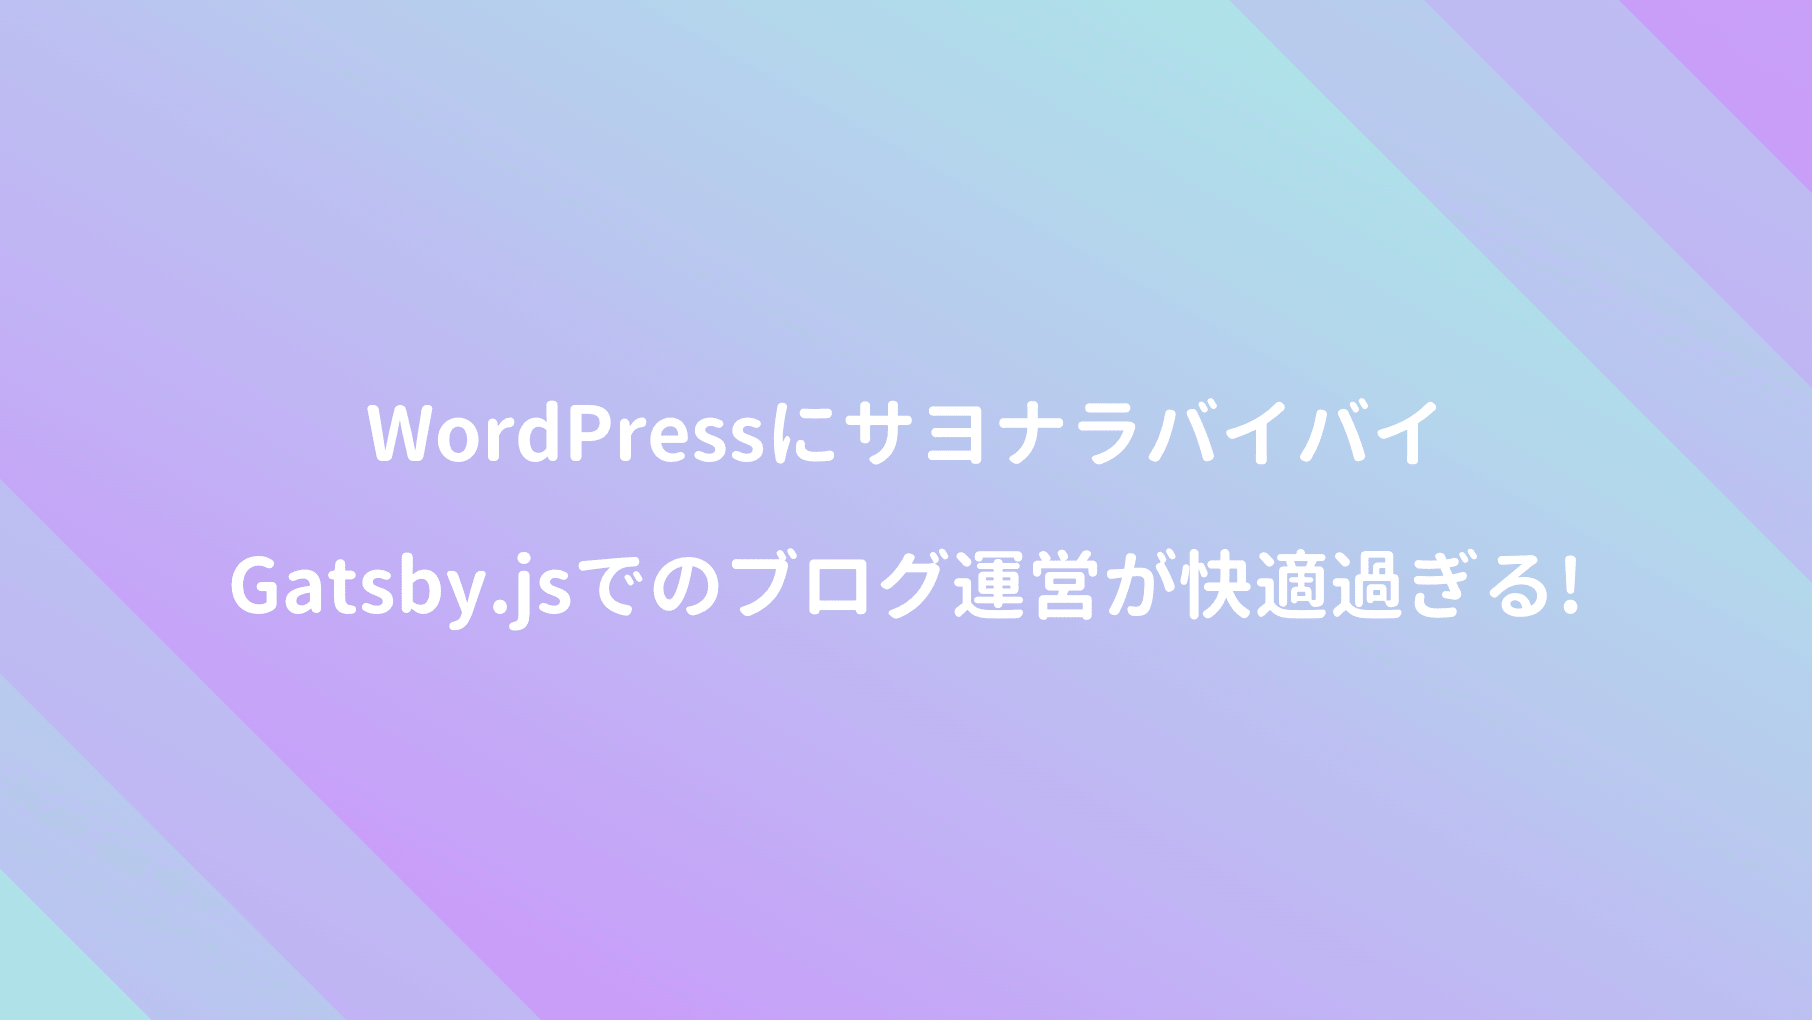
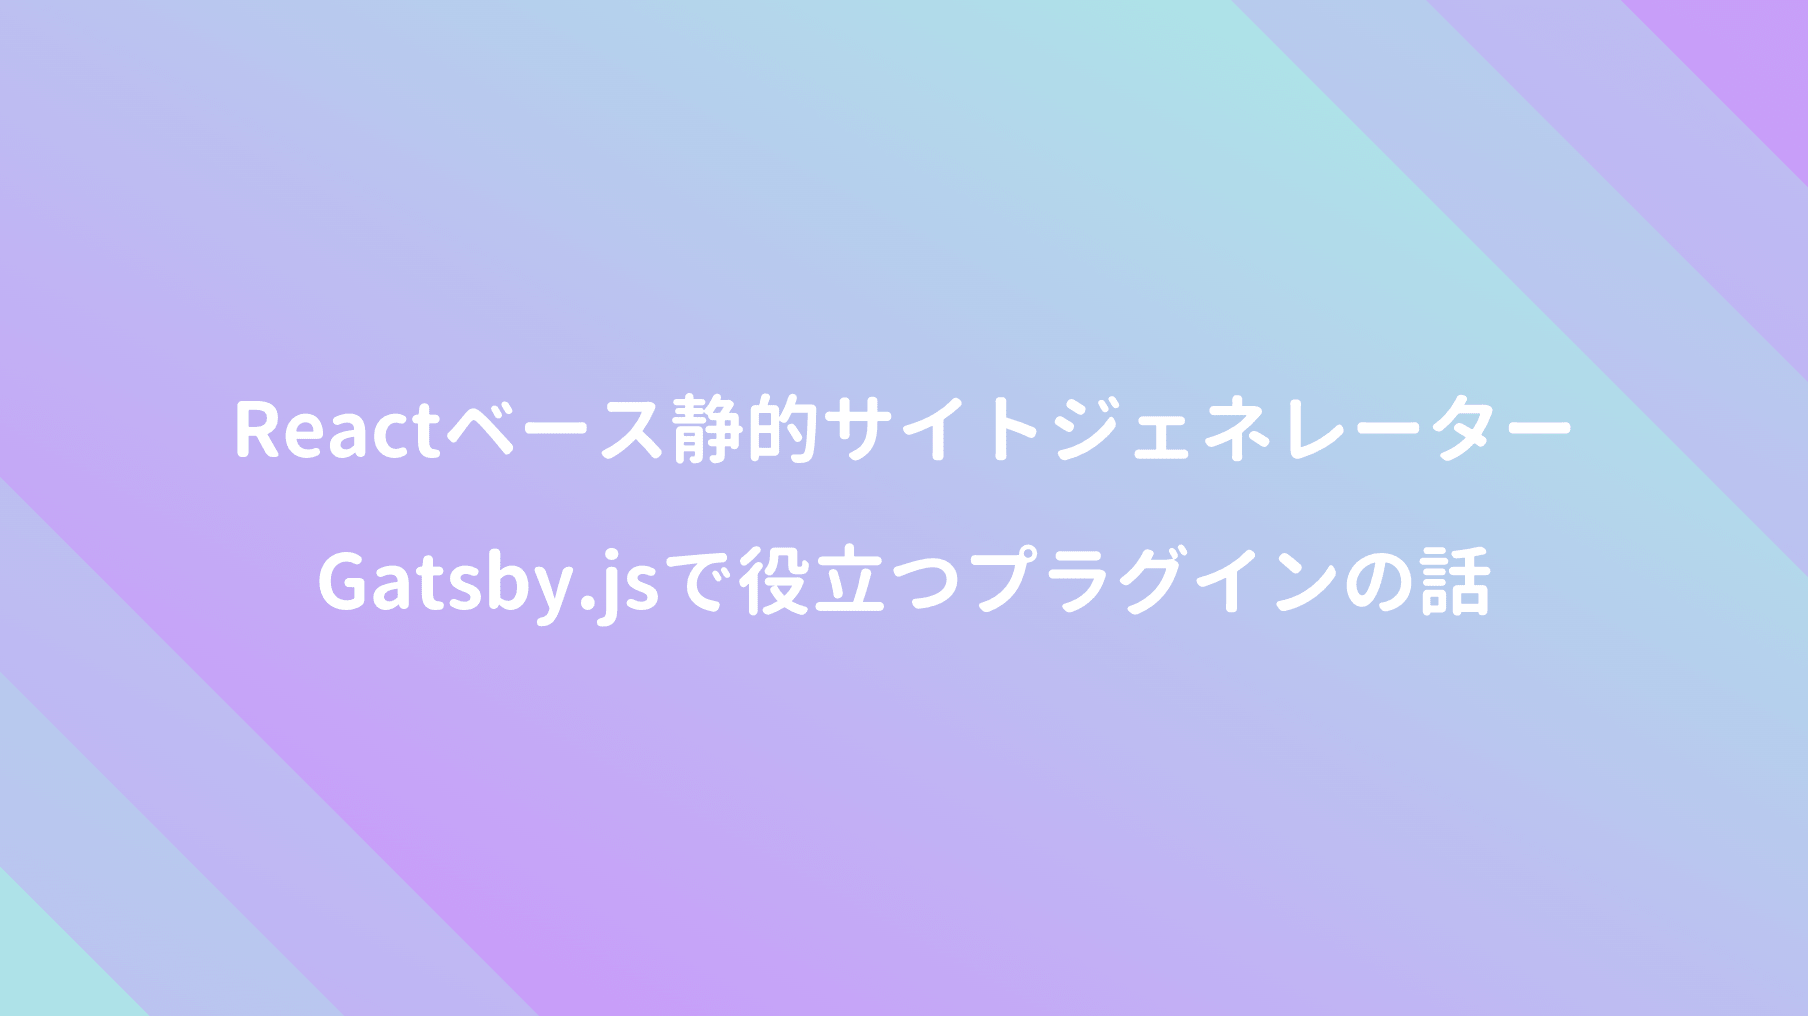
update posts

Changed region(s): [[0.1239, 0.5187, 0.8673, 0.6407], [0.1239, 0.3661, 0.8673, 0.4577], [0.9912, 0.1526, 1.0, 0.1831]]

diff --git a/content/blog/post-31/index.md b/content/blog/post-31/index.md
@@ -1,0 +1,132 @@
+---
+title: BtoBマーケティングのABMとは何か!? ABMが求められる背景について
+date: "2020-03-29T00:00:00.284Z"
+description: "以前にBtoBマーケティングを教えてくれた方から、シンフォニーマーケティングの庭山一郎さんを薦められたので、同氏が執筆されたABM(アカウントベースドマーケティング)の書籍を読んでみた。様々な要因が複雑に絡み合う現代で、日本は世界で稀な「資本主義でありながらマーケティング抜きで大成功出来た国」だったが、それも2008年のリーマンショックで完全に終わり、今やマーケティングというナレッジや機能抜きでは、成長どころか存続すら危ういと言われている。"
+pagetype: "category"
+categoryname: "ビジネス"
+categoryslug: "business"
+tags: ["マーケティング", "ABM", "MAツール"]
+thumbnail: post-31.png
+---
+
+![](./post-31.png)
+
+以前私にBtoBマーケティングを教えてくれた方から、シンフォニーマーケティングの庭山一郎さんを薦められ、同氏が執筆されたABM(アカウントベースドマーケティング)の書籍を読んでみた。
+
+様々な外的要因から、今まで日本はマーケティング無しに経済大国の座に上り詰めたので、日本のマーケティングは米国に比べて15年遅れている。しかしグローバル化の時代では、日本もマーケティング無しに生き残ることは困難。そのためBtoBマーケティングでは、ABMの活用が求められている。
+
+<div class="blackboard-box">
+<p>■ ABMが成果を挙げられる7つの理由</p>
+<p>①. 営業とマーケティングが協業できる.</p>
+<p>②. マーケティング活動を売り上げに貢献させられる.</p>
+<p>③. 既存顧客からいち早く成果を出せる.</p>
+<p>④. 新規顧客の扉をこじ開けられる.</p>
+<p>⑤. 低コストでスタートできる.</p>
+<p>⑥. 過去の投資を無駄にしない.</p>
+<p>⑦. ターゲットアカウントと面でつながれる.</p>
+<div class="chalk1"></div>
+<div class="chalk2"></div>
+</div>
+
+本書は日本のマーケティングにおける歴史的な背景、BtoBマーケティングの基礎知識、ABMやMAツール等、BtoBマーケティングに関わる包括的な知識が得られる一冊であることは間違いないと思う。
+
+## 日本のマーケティングが遅れている理由
+
+なぜ日本はマーケティング無しに、世界第2位の経済大国に上り詰めることが出来たのか!?
+
+本書ではその要因として、<span style="color: crimson; font-weight: bold;">戦後の急成長する内需と、為替の恩恵を受けたことにある</span>と説明。
+
+> 日本は第二次世界大戦での敗戦による復興需要と朝鮮戦争の特需が重なり、一気に上昇気流に乗ることが出来ました。
+> 
+> さらに高度経済成長の中で家電をそろえ、3〜4年おきに車を買い替え、子供に高等教育を受けさせるなど、巨大で旺盛な国内内需が企業の成長を支えたのです。マーケティングはそれほど重要ではありません。良いものを作れば売れる時代が続いたのです。
+> 
+> また日本は世界有数の工業国であり、その技術力で世界最高レベルの工業製品を、為替によって非常に安い価格で輸出できたことで、日本製品はマーケティングの助けが無くても飛ぶように売れました。
+
+ただしそれも2008年のリーマンショックで完全に終わり、今やマーケティングというナレッジや機能抜きでは、成長どころか存続すら危うく</span>、なのでABMの理解が大切だと言われている。
+
+## ABMはマーケティングと営業を繋ぐもの
+
+本書ではABMを以下のように定義されている。
+
+> 全社の顧客情報を統合し、マーケティングと営業の連携によって、定義されたターゲットアカウントからの売り上げ最大化を目指す戦略的マーケティング。
+
+マーケティング素人の自分には、この文章だけではほぼ理解不能だが、まずABMの重要性が叫ばれる背景には、マーケティングと営業の間にあった深い溝が大きく関係。
+
+> マーケターは<span style="color: crimson; font-weight: bold;">「何人のリード(見込み客情報)を保有しているか」</span>を考え、営業担当者は数ではなく質、つまり<span style="color: crimson; font-weight: bold;">「自分たちがフォローしたいターゲット企業は何社/何人なのか」</span>を考えている。更にいえば、自分が販売している製品や、サービスの購入に関わる部署の人間以外に興味はないのです。
+
+マーケターがコストを掛けて案件創出しても、営業はフォローしないので不信に感じ、営業側も「なぜもっと良質な案件を創れないのか?」とお互いの溝は深まるばかり。これではMAツールを導入しても、屍の山が増えるだけで、日本にマーケティングが根付くことは無かった。
+
+ABMでは営業がフォローしたい企業を、最優先でリストアップするため、SALとして受け入れられる率は一気に上がり、両者の関係を密に連携出来ることが期待できる。 つまり <span style="color: crimson; font-weight: bold;">ABMの価値とは、連携出来なかったマーケティング部門とセールス部門を上手く連携させ、ターゲットアカウントからの売り上げを最大化できること</span>  にある。
+
+## ディマンドジェネレーションの進化系がABM
+
+本書ではBtoBマーケティングの基礎理論であるDemand Waterfallが紹介されている。
+
+<div class="blackboard-box">
+<p>①. 見込み客データの収集</p>
+<p>Webやイベント、コールドコールなどで集めた名刺をデジタル化し、名寄せや営業対象外排除などのデータマネージメントを実施する.</p>
+<br/>
+<p>②. リードナーチャリング（啓蒙・育成）</p>
+<p>メールマガジンやWeb、動画、オンラインセミナー、ホワイトペーパー、チャット、そしてSNS、電話など多くのチャネルと、ターゲットに最適化されたコンテンツを利用。</p>
+<br/>
+<p>③. スコアリング（絞り込み）</p>
+<p>ファネルの中にいる全員を、属性情報と行動履歴の2軸でスコアリングし、有望と思われる見込み客リストを抽出.</p>
+<br/>
+<p>※ 抽出されたリストはMQLと呼ばれ、営業部門が受け入れるとSALとなる。また営業がフォローする案件には、SALとマーケティングに依存しないリストであるSGL(Sales Generated Lead)から成り立ち、合計はSQL(Sales Qualified Lead)と呼ばれる。</p>
+<div class="chalk1"></div>
+<div class="chalk2"></div>
+</div>
+
+これに対して、**インバウンドマーケティング**では、<span style="color: crimson; font-weight: bold;">ハウスリストをナーチャリングせず、インターネットにアクセス出来る人を全てリードとし、顕在化した課題を持つ人に見つけてもらう視点</span>で設計。
+
+従来のディマンドジェネレーションとABMの違いだが、そもそもディマンドジェネレーションはABMと対極に位置するものではなく、デマンドジェネレーションの進化系がABMだとしている。<span style="color: crimson; font-weight: bold;">また本書ではディマンドジェネレーションを定置網、ABMを銛だと喩える。</span>
+
+> たとえて言うなら、一つの湾のような巨大な養殖イケスの中に船を入れ、養殖している魚の中から獲りたい魚だけを銛で打つようなもの。こうすれば外洋を走り回るような効率の悪さも無く、必要とする量と質の魚だけを収穫できる。
+
+今までは果てしない大海原で、大物に出会える時代だったかもしれないが、現代では1週間海の上を走り回っても、魚影すら見かけない時代。なのでMAをプラットフォームにしたデマンドセンターを確立させ、ABMの銛でターゲットを獲得することが大切だと(実態として殆どの企業が出来ていない)
+
+## ABMで成果を出せる企業とは!?
+
+しかしABMも決して銀の弾丸ではなく、成果の出やすい会社と出にくい会社がある。
+
+ABMは一つの企業に複数のコンタクトポイントがあり、そこで発生したコンタクト履歴や、属性情報を統合的に管理し、新規を戦略的に攻略 + 既存を戦略的に守るマーケティング手法である。
+
+なのでこんなケースには適していないとされる。
+
+> 購買に関わる人が1〜3人の経営幹部で決まってしまう中小・零細企業の市場には、あまり必要ないかもしれません。
+> 
+> 大学の研究室のように、購買プロセスが決まっていて予算申請がガラス張りとなっている市場でも、あまり必要が無いかもしれません。
+> 
+> 売っている商材が単品に近く、企業規模が大きくても一つの部門の決まった担当者にしかビジネスチャンスが存在しないなら、やはり必要は無いかもしれません。
+
+<span class="mark">POINT</span>日本では<span style="color: crimson; font-weight: bold;">中堅以上の規模感、従業員数は数百人以上で売上100億円以上の企業</span>が適している.
+
+## 各領域で専門知識が求められる
+
+私は仕事柄、MAツール開発に携わっているので、MAツールやABMが生まれた背景を中心に熟読したが、本書の後半では、ABMを実運用するための具体的なタスクや考え方にも言及されていた。
+
+ABMの実運用はかなりのコストがかかると思われるので、流行っているからと安易に手を出すべきものではない(本書でもABMが適している条件を示している)
+
+正直な感想としては、各領域で非常に専門性が求められるので、本書に書かれている内容を実行出来るのは、潤沢な資金と人的リソースを掛けられる大企業にしか出来ないのでは!?と感じた。
+
+## マーケティング用語
+
+**■ 1:5の法則** ー 初めて購入してもらうコストは、一度購入した顧客に再販するコストの5倍必要。
+
+**■ 5:25の法則** ー 顧客維持率を5%改善した場合に利益が25%向上するという法則。
+
+**■ 海外のMAツール** ー IBMのSilverpop、オラクルのEloqua、マイクロソフトのMarketingPilot、セールスフォース・ドットコムのPardot、アドビシステムズのNeolane
+
+**■ MQL(Marketing Qualified Lead)** ー マーケティング活動の結果として創出された案件。
+
+**■ SAL(Sales Accepted Lead)** ー MQLのうち営業が受け入れたリードのこと。
+
+**■ SGL(Sales Generated Lead)** ー マーケティング活動に関係なく、営業や販売代理店の営業担当者による営業活動から発生した案件をさす言葉で、日本では「引き合い」と呼ばれている。
+
+**■ CRM(Customer Relationship Management)** ー 主に購買履歴のことで、どの企業の誰が、いつ、何を、いくらで発注したのかという履歴を管理しながら、クロスセルやアップセルで売り上げを維持・拡大しようとするソリューション。
+
+**■ SFA(Sales Force Automation)** ー 営業案件をパイプラインで可視化しながら管理し、失注率を下げ、売り上げの予測を可能にしたソリューション(個人情報とコンタクト履歴が格納されている)
+
+
+## 参考文献
+■ [今一番使われているMAは1位：Pardot、2位：BowNow、3位：Marketoという結果に](https://mtame.jp/martec/MA_introduction/)  

diff --git a/content/blog/post-30/index.md b/content/blog/post-30/index.md
@@ -1,5 +1,5 @@
 ---
-title: WordPressにサヨナラバイバイ Gatsby.jsでのブログ運営が快適過ぎる!
+title: Reactベース静的サイトジェネレーターGatsby.jsで役立つプラグインの話
 date: "2020-03-28T00:00:00.284Z"
 description: "WordPressは素晴らしいオープンソースだが、CMSが孕むセキュリティーの問題、コストに難がある点、表示速度の遅さ(インフラ知ってれば改善出来るけど)等、無料で使ってるのに不満を持っていた。そんな背景もあって、今回は以前より話題になっていた静的サイトジェネレーターを使ってみた。少し調べるだけで簡単に作れるし、簡単・便利・カッコいいの三拍子が揃っている事を実感。"
 pagetype: "category"
@@ -11,17 +11,11 @@ thumbnail: post-30.png
 
 ![](./post-30.png)
 
-ブログ運営で最もポピュラーな手段としてWordPressがある。
+WordPress自体は大変有用なオープンソースだと思うけど、CMSが孕むセキュリティーの問題、コストに難があったり、表示速度の遅さ（インフラ知識があれば、ある程度は改善出来るけど）など、散々無料で使わせてもらっているのに、何かと不満を持っていた。
 
-WordPressは素晴らしいオープンソースだが、CMSが孕むセキュリティーの問題、コストに難がある点、表示速度の遅さ(インフラ知ってれば改善出来るけど)等、無料で使ってるくせに不満を持っていた。
+そんな背景もあって、以前より話題となっていた静的サイトジェネレーターのGatsby.jsを使ってみたが <span style="color: crimson; font-weight: bold;">プラグインも豊富で「簡単・便利・カッコいい」の三拍子が揃っているし、何よりMarkdownでサクサク書けて、CMSより爆速で表示されることを実感できた。</span>
 
-そんな背景もあり、以前より話題になっていた静的サイトジェネレーターを使ってみたが <span style="color: crimson; font-weight: bold;">少し調べるだけで簡単に作れるし、簡単・便利・カッコいいの三拍子が揃っている事を実感。</span>
-
-Markdownで記事をサクサク書けるのも◎で、正直もうWordPressには戻れない。
-
-冒頭で簡単だと紹介したが、Gatsby.js自体がReactJSとGraphQLをベースに構築され、JavaScriptやReactJSの知識が求められるので、非エンジニアには非常にハードルが高い。
-
-またCMSのような機能は実装されていない。なのでGatsby.jsで用意されている各種プラグインを活用し、自作する必要があるので、今回はブログ構築でやった対応、参考になった記事をいくつか紹介。
+Gatsby.js自体がReactとGraphQLをベースに構築されているので、当然JavaScriptやReactの知識や、yarnでのモジュール管理が求められる。ただプラグインは豊富で、機能拡張は簡単に出来るので、構築する上で役立ったプラグインや参考記事を紹介。
 
 ## gatsby-imageでの画像表示
 

diff --git a/content/blog/post-29/index.md b/content/blog/post-29/index.md
@@ -5,7 +5,7 @@ description: "テクノロジーの力で新しい価値創造のため、デジ
 pagetype: "category"
 categoryname: "テクノロジー"
 categoryslug: "technology"
-tags: ["AWS", "GAFA", "アーキテクチャ"]
+tags: ["AWS", "GAFA", "DX"]
 thumbnail: post-29.png
 ---
 

diff --git a/content/blog/post-23/index.md b/content/blog/post-23/index.md
@@ -5,7 +5,7 @@ description: "クラウド技術の登場で、アプリケーションとイン
 pagetype: "category"
 categoryname: "テクノロジー"
 categoryslug: "technology"
-tags: ["AWS", "GAFA"]
+tags: ["AWS", "GAFA", "DX"]
 thumbnail: post-23.png
 ---
 

diff --git a/content/blog/post-24/index.md b/content/blog/post-24/index.md
@@ -5,7 +5,7 @@ description: "昨今ではサーバレス技術の進化が目覚しく、従来
 pagetype: "category"
 categoryname: "テクノロジー"
 categoryslug: "technology"
-tags: ["AWS", "GAFA"]
+tags: ["AWS", "GAFA", "DX"]
 thumbnail: post-24.png
 ---
 
